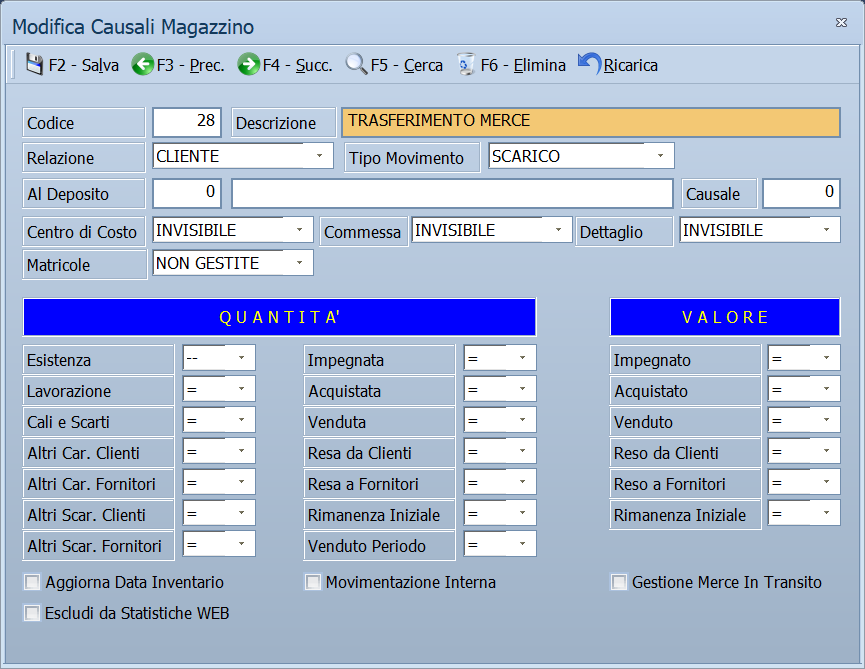
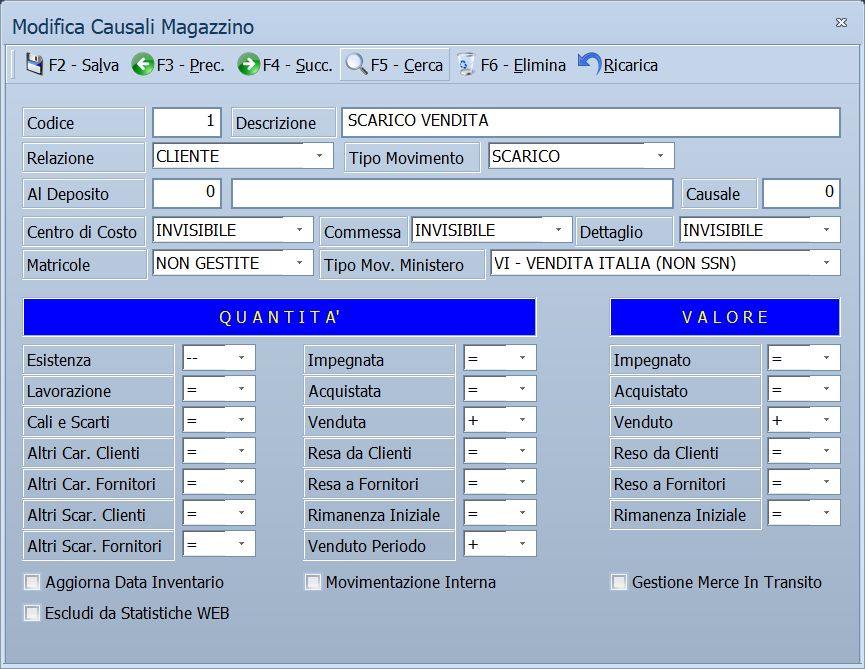
Gestione farmaceutica (B09.00): campi nuovi di ditte, articoli, clienti, destinazioni, depositi e causali
- Ditte: «Usa Gestione Farmaceutica» nelle Impostazioni Protette, come si
  attiva, e la conferma «Sei Sicuro di voler continuare?».
- Articoli: Cod. Minsan e Soggetto a Tracciabilita', con il messaggio del
  controllo sul formato del Minsan.
- Clienti (scheda Impostazioni) e destinazioni: tipo e codice ministeriale.
- Depositi: Cod. Sito NSIS. Causali: Tipo Mov. Ministero con i 29 tipi.
- Novita': sezione 2026 B09.00, con la correzione dell'avviso spurio sul
  ricalcolo delle causali e la nuova disposizione di destinazioni e depositi.
- Schermate di articoli, destinazioni, depositi e causali rifatte a gestione
  farmaceutica accesa, su dati di prova (fornitore offuscato).
- Versione portata a 2026 B09.00; appendice dei messaggi e domande aperte
  rigenerate.

Claude-Session: https://claude.ai/code/session_012GmMJWReQpuuApgDaJwkzQ

Changed region(s): [[0.3746, 0.1495, 0.9676, 0.2093], [0.3746, 0.3587, 0.9988, 0.4185], [0.2185, 0.1495, 0.2497, 0.2093]]

diff --git a/docs/appendici/messaggi-errore.md b/docs/appendici/messaggi-errore.md
@@ -8,7 +8,7 @@ description: Elenco alfabetico dei messaggi di Facile, con la maschera che li mo
 Tutti i messaggi documentati nelle schede, in un elenco solo. Cerca il
 testo comparso a video con il campo di ricerca in alto.
 
-Aggiornato al 2026-10-10 — **1055 messaggi**.
+Aggiornato al 2026-10-12 — **1057 messaggi**.
 
 !!! note "Come leggere la colonna «Dove»"
 
@@ -412,6 +412,7 @@ Aggiornato al 2026-10-10 — **1055 messaggi**.
 | *Il Codice Fiscale digitato risulta già presente in archivio! Vuoi Continuare?* | [Anagrafica fornitori](../moduli/anagrafiche/anagrafica-fornitori.md) | Lo stesso codice fiscale è già di un altro fornitore. | Come sopra. |
 | *Il Codice Fiscale digitato risulta già presente in archivio! Vuoi Continuare?* | [Rubrica](../moduli/anagrafiche/rubrica.md) | Lo stesso codice fiscale è già di un altro contatto. | Come sopra. |
 | *Il codice IVA impostato non è esente !<br>Impossibile continuare* | [Emissione fatture da documenti](../moduli/vendite/emissione-fatture-da-documenti.md) | L'aliquota indicata non è di esenzione. | Usa un'[aliquota](../moduli/contabilita/aliquote-iva.md) esente. |
+| *Il Codice Minsan/AIC deve avere 9 cifre, oppure la lettera E seguita da 8 cifre.* | [Anagrafica articoli](../moduli/anagrafiche/anagrafica-articoli.md) | Il **Cod. Minsan** non ha il formato richiesto. | Correggilo, oppure lascialo vuoto se l'articolo non è un medicinale. |
 | *Il codice nazione impostato sulla ditta deve essere di due caratteri!* | [Fatture elettroniche passive](../moduli/contabilita/fatture-elettroniche-passive.md) | Il codice nazione non è nel formato ISO a due lettere. | Correggilo, per esempio `IT`. |
 | *Il Codice non può superare …* | [Anagrafica clienti](../moduli/anagrafiche/anagrafica-clienti.md) | Il codice scritto è fuori dall'intervallo ammesso. | Usa un codice più basso. |
 | *Il Destinatario e' una pubblica amministrazione!<br>Vuoi utilizzare il registro e la causale per le Fatture PA ?* | [Documento di vendita](../moduli/vendite/documento-di-vendita.md) | Come sopra, quando è il destinatario a essere una PA. | Come sopra. |
@@ -961,6 +962,7 @@ Aggiornato al 2026-10-10 — **1055 messaggi**.
 | *Se il movimento è di tipo SCARICO impostare ESISTENZA -* | [Chiusura dell'inventario](../moduli/inventario/chiusura-inventario.md) | La causale è di scarico ma non sottrae dall'esistenza. | Correggi la [causale](../moduli/magazzino/causali-magazzino.md). |
 | *Se il movimento è di tipo SCARICO impostare ESISTENZA -* | [Movimenti di magazzino](../moduli/magazzino/movimenti-magazzino.md) | La causale scelta è di scarico ma non toglie dall'esistenza. | Correggi la [causale di magazzino](../moduli/magazzino/causali-magazzino.md), o scegline un'altra. |
 | *Sei Sicuro ?* | [Manutenzione degli articoli](../moduli/anagrafiche/manutenzione-articoli.md) | Seconda conferma della cancellazione. | **Sì** cancella davvero. Non si torna indietro. |
+| *Sei Sicuro di voler continuare?* | [Ditte](../moduli/anagrafiche/ditte.md) | Conferma richiesta da **F2 - Salva** nelle **Impostazioni Protette**. La risposta preimpostata è **No**. | Rispondi **Sì** per registrare. La finestra resta aperta: chiudila con **Esci**. |
 | *Selezionare almeno una Sezione!* | [Stampe magazzino clienti](../moduli/magazzino/stampe-magazzino-clienti.md), [Stampe magazzino fornitori](../moduli/magazzino/stampe-magazzino-fornitori.md) | Si è confermato senza aver spuntato nessuna sezione. | Spunta le sezioni da includere. |
 | *Selezionare almeno un registro !* | [Rinumerazione protocolli](../moduli/contabilita/rinumerazione-protocolli.md) | Nessuna delle sei caselle è spuntata. | Spunta il registro o i registri da rinumerare. |
 | *Sequenza Errata* (sul display del Pos Touchscreen) | [Vendita al banco e POS](../moduli/vendite/vendita-al-banco.md) | Fra le altre cause: hai battuto una quantità da moltiplicare e poi letto l'etichetta di una bilancia che porta già l'importo; oppure hai letto lo scontrino di una bilancia Zenith con il moltiplicatore, il reso, lo storno o il prezzo libero ancora attivi. | Premi **C** e rileggi l'etichetta o lo scontrino senza altri tasti; per più pezzi, leggi un'etichetta per pezzo. |

diff --git a/docs/moduli/anagrafiche/ditte.md b/docs/moduli/anagrafiche/ditte.md
@@ -474,6 +474,7 @@ dopo la password e dopo un avviso esplicito. Contiene i parametri più delicati:
 | **Key SmartCard**, **Pin**, **Utilizzo SmartC.** | La smart card. |
 | **Ultima Fattura su Cassa**, **Ultima Scontrino Emesso** | Gli ultimi numeri emessi. |
 | **Categoria Premi** | La categoria dei premi fidelity. |
+| **Usa Gestione Farmaceutica** | Accende la gestione dei medicinali: il codice Minsan e la tracciabilità sugli [articoli](anagrafica-articoli.md), i codici ministeriali su [clienti](anagrafica-clienti.md) e [destinazioni](destinazioni-diverse.md), il sito NSIS sui [depositi](../magazzino/depositi.md) e il tipo di movimento sulle [causali di magazzino](../magazzino/causali-magazzino.md). Spenta, quei campi non compaiono da nessuna parte. |
 
 ### Intestazione per Fatturazione
 
@@ -507,6 +508,17 @@ stampata sui documenti, con **F2 - Salva** ed **Esci**.
 Va deciso **prima** di popolare gli archivi: cambiare idea dopo significa avere
 articoli classificati secondo un significato che non c'è più.
 
+### Attivare la gestione farmaceutica
+
+1. Entra come amministratore e apri **Menu ▸ Archivi ▸ Ditte ▸ Modifica**.
+2. Premi **F7 - Impo. Prot.**, inserisci la password e conferma l'avviso.
+3. Spunta **Usa Gestione Farmaceutica**.
+4. Premi **F2 - Salva** e rispondi **Sì** a *Sei Sicuro di voler continuare?*.
+5. Premi **Esci**, poi chiudi la maschera delle ditte.
+6. Da quel momento le maschere di articoli, clienti, destinazioni, depositi e
+   causali di magazzino mostrano i campi della gestione farmaceutica. Una
+   maschera che era già aperta li mostra dopo averla chiusa e riaperta.
+
 ### Attivare l'IVA per cassa
 
 1. Nella scheda **Generale**, metti **Iva D.L.83/2012** su `SI`.
@@ -527,6 +539,7 @@ articoli classificati secondo un significato che non c'è più.
 | *Una sola ditta e' presente in archivio!* | Si è chiesto il cambio ditta ma l'azienda gestita è una sola. | Non c'è nulla da fare: si sta già lavorando sull'unica azienda. |
 | *Cambio ditta non permesso!* | Il cambio ditta è stato bloccato per questa installazione. | Se serve, chiedi all'assistenza di abilitarlo. |
 | *Attenzione!<br>La variazione di queste impostazioni può provocare il blocco del funzionamento del programma.<br>Eseguire l'operazione solo dopo aver contattato l'assistenza al numero 0941/563653.* | Si stanno aprendo le **Impostazioni Protette**. | Chiama prima l'assistenza, come dice il messaggio. |
+| *Sei Sicuro di voler continuare?* | Conferma richiesta da **F2 - Salva** nelle **Impostazioni Protette**. La risposta preimpostata è **No**. | Rispondi **Sì** per registrare. La finestra resta aperta: chiudila con **Esci**. |
 | *Il numero delle cifre non può essere pari a 0!* | Nel formato seriale da contatore manca il numero di cifre. | Compila **Cifre**. |
 | *Il codice finale non può avere valore pari a 0!* | Manca il codice finale del contatore. | Compila **Cod. Finale**. |
 | *Il codice finale non può avere valore inferiore o pari al valore iniziale!* | L'intervallo del contatore è a rovescio. | Metti **Cod. Finale** maggiore di **Cod. Iniziale**. |

diff --git a/DOMANDE-APERTE.md b/DOMANDE-APERTE.md
@@ -1,7 +1,7 @@
 # Domande aperte del manuale Facile
 
 Elenco generato da tutti i marcatori `DA VERIFICARE` presenti nelle schede.
-Aggiornato al 2026-10-03 — **6 domande** su 4 pagine.
+Aggiornato al 2026-10-12 — **14 domande** su 11 pagine.
 
 Ogni voce corrisponde a un commento HTML dentro la pagina indicata: rispondendo
 alla domanda, la correzione va fatta nella pagina e il marcatore va tolto.
@@ -9,18 +9,61 @@ Per rigenerare questo elenco:
 
     .venv/Scripts/python.exe tools/domande-aperte.py
 
+## Messaggi di errore
+
+`docs/appendici/messaggi-errore.md`
+
+- [ ] dopo la riapertura la bilancia emette un nuovo scontrino con le stesse righe?
+
 ## Codici articolo dei clienti
 
 `docs/moduli/anagrafiche/codici-articolo-clienti.md`
 
 - [ ] da quale voce di menu parte l'invio EDI degli avvisi di spedizione (DESADV), che usa anch'esso questi codici?
 
+## Cassa automatica Cashlogy
+
+`docs/moduli/casse-bilance/casse-automatiche/cashlogy.md`
+
+- [ ] che cosa fanno sulla schermata della Cashlogy i pulsanti Accetta e Deposito
+
+## Cassa automatica Cashmatic
+
+`docs/moduli/casse-bilance/casse-automatiche/cashmatic.md`
+
+- [ ] quale programma della Cashmatic elabora i file nella cartella di scambio
+
+## Registratori telematici RCH
+
+`docs/moduli/casse-bilance/registratori/rch.md`
+
+- [ ] le righe da mettere in scontrino.inp per far leggere al Multidriver la programmazione (nel documento tecnico «Gestione Driver RCH» sono andate perse)
+
+## Connettore nopCommerce
+
+`docs/moduli/ecommerce/nopcommerce.md`
+
+- [ ] quale estensione del negozio nopCommerce espone l'indirizzo con gli ordini in XML
+
+## Connettore PrestaShop
+
+`docs/moduli/ecommerce/prestashop.md`
+
+- [ ] la destinazione di consegna creata dall'importazione non viene collegata all'ordine (resta quella del titolare)
+
+## Connettore WooCommerce
+
+`docs/moduli/ecommerce/woocommerce.md`
+
+- [ ] quale estensione del negozio espone wp-json/wholesale/v1, e quali credenziali WordPress servono per le immagini
+
 ## Documento di vendita
 
 `docs/moduli/vendite/documento-di-vendita.md`
 
+- [ ] con la quantita' scritta come numero il programma la legge dalla colonna G e non dalla H (difetto segnalato, non corretto)
 - [ ] cosa fanno esattamente Buoni Pasto e Fattura XML/P7M dopo la scelta
-- [ ] documentare le finestre della riga delle altre versioni (Taglie e Colori, Tabacchi, CO.M.EDIL)
+- [ ] documentare le finestre della riga delle altre versioni (Tabacchi, CO.M.EDIL)
 
 ## Promozioni
 
@@ -29,8 +72,8 @@ Per rigenerare questo elenco:
 - [ ] che cosa fa la cassa SysPC quando l'azione è posticipata?
 - [ ] il 3x2 di esempio in "Come si fa" usa (No) - Articoli Autonomi; per le casse vale (Si) o (No)? Facile non legge questo campo.
 
-## Novità
+## Vendita al banco e POS
 
-`docs/novita/index.md`
+`docs/moduli/vendite/vendita-al-banco.md`
 
-- [ ] data di distribuzione della B08.01
+- [ ] dopo la riapertura la bilancia emette un nuovo scontrino con le stesse righe?

diff --git a/docs/moduli/anagrafiche/anagrafica-articoli.md b/docs/moduli/anagrafiche/anagrafica-articoli.md
@@ -140,6 +140,8 @@ Il programma richiede sempre la **Descrizione** e il **Cod. Iva**. Il
 | Coef. Convers. | | Coefficiente per convertire l'unità del fornitore nella propria. | Numero |
 | Codice Assoc. | | Codice dell'articolo presso l'associazione o il consorzio. | Testo |
 | Web Id | | Identificativo dell'articolo sul sito web. Compare solo se nei dati dell'azienda è attiva la gestione web, e non è modificabile. | Numero |
+| Cod. Minsan | | Il codice ministeriale del prodotto (AIC o Minsan), con cui il medicinale è identificato nelle comunicazioni al Ministero della Salute. Può restare vuoto. Compare solo con la [gestione farmaceutica](ditte.md#attivare-la-gestione-farmaceutica) attiva. | 9 cifre, oppure la lettera E seguita da 8 cifre |
+| Soggetto a Tracciabilità | | Segna i medicinali soggetti alla tracciabilità del farmaco, i cui movimenti vanno comunicati al Ministero della Salute. Compare solo con la gestione farmaceutica attiva. | Casella |
 
 Sopra le schede compaiono, quando ricorrono, le indicazioni **PROMO** —
 l'articolo è in promozione — e **Fuori Ass.** — l'articolo è fuori
@@ -294,6 +296,7 @@ Con l'anagrafica già aperta, **F5 - Cerca** riporta allo stesso elenco.
 | *La descrizione articolo in italiano e' obbligatoria!* | Stai lavorando in una lingua diversa dall'italiano e la descrizione italiana è vuota. | Torna all'italiano con **Seleziona Lingua** e scrivi la descrizione. |
 | *Codice Articolo Presente in Archivio.* | Il codice digitato è già di un altro articolo. | Usa un codice diverso, o lascialo vuoto per farlo generare al programma. |
 | *Codice Articolo inferiore al minimo consentito (…)!* — *Codice Articolo superiore al massimo consentito (…)!* | Il codice è fuori dall'intervallo previsto per la generazione automatica dei codici. | Usa un codice compreso nell'intervallo indicato dal messaggio. |
+| *Il Codice Minsan/AIC deve avere 9 cifre, oppure la lettera E seguita da 8 cifre.* | Il **Cod. Minsan** non ha il formato richiesto. | Correggilo, oppure lascialo vuoto se l'articolo non è un medicinale. |
 | *Accoppiata Bancone - PLU gia' presente in Archivio ! Vuoi Correggere ?* | Un altro articolo ha già quel numero di PLU su quel bancone. | Rispondi **Sì** e cambia **Num. PLU** o **Bancone** nella scheda *Impostazioni*. |
 | *Confermi la cancellazione...* | Conferma richiesta da **F6 - Elimina** sulla prima eliminazione. | Rispondi **Sì** per marcare l'articolo come cancellato. |
 | *Confermi la Cancellazione....* | Conferma richiesta dalla seconda eliminazione, quella definitiva. | Rispondi **Sì** per togliere l'articolo dall'archivio. |

diff --git a/docs/novita/index.md b/docs/novita/index.md
@@ -16,6 +16,52 @@ una versione specifica del programma lo dicono in apertura, per esempio
 Non sono elencate le modifiche interne, che non cambiano nulla a video, e
 quelle dei prodotti che hanno un manuale proprio, come Hotel e RistoFacile.
 
+## Versione 2026 B09.00
+
+In preparazione.
+
+### Nuove funzioni
+
+**[Gestione farmaceutica](../moduli/anagrafiche/ditte.md#attivare-la-gestione-farmaceutica).**
+Per chi distribuisce medicinali, una nuova casella delle **Impostazioni
+Protette** della ditta, **Usa Gestione Farmaceutica**, aggiunge alle maschere i
+dati che servono per la tracciabilità del farmaco presso il Ministero della
+Salute:
+
+- sugli [articoli](../moduli/anagrafiche/anagrafica-articoli.md), il **Cod.
+  Minsan** e la casella **Soggetto a Tracciabilità**. Il codice si controlla al
+  salvataggio: 9 cifre, oppure la lettera E seguita da 8 cifre;
+- sui [clienti](../moduli/anagrafiche/anagrafica-clienti.md), nella scheda
+  **Impostazioni**, il tipo e il codice ministeriale del destinatario, del
+  committente e dell'intestatario della fattura;
+- sulle [destinazioni](../moduli/anagrafiche/destinazioni-diverse.md) dei
+  clienti, il tipo e il codice ministeriale del destinatario;
+- sui [depositi](../moduli/magazzino/depositi.md), il **Cod. Sito NSIS**;
+- sulle [causali di magazzino](../moduli/magazzino/causali-magazzino.md), il
+  **Tipo Mov. Ministero**, con i 29 tipi previsti.
+
+Con la casella spenta non cambia nulla: i campi nuovi non compaiono.
+
+### Miglioramenti
+
+- [Destinazioni diverse](../moduli/anagrafiche/destinazioni-diverse.md): la
+  finestra è più larga e i dati di nascita del titolare non sono più chiusi
+  in un riquadro.
+- [Depositi](../moduli/magazzino/depositi.md): **Cod. P.Vendita** della
+  versione Megastore sta ora sopra le caselle **Escludi**, accanto al sito
+  NSIS.
+
+### Correzioni
+
+**Magazzino**
+
+- [Causali magazzino](../moduli/magazzino/causali-magazzino.md): salvando una
+  causale raggiunta con **F3 - Prec.**, **F4 - Succ.**, **F5 - Cerca** o
+  **Ricarica**, il programma poteva avvisare *Hai cambiato il modo in cui
+  questa causale muove i contatori di magazzino…* anche se i contatori non
+  erano stati toccati: li confrontava con quelli della prima causale aperta.
+  Ora l'avviso compare solo quando i contatori cambiano davvero.
+
 ## Versione 2026 B08.01
 
 In distribuzione dal 12 ottobre 2026.

diff --git a/docs/moduli/magazzino/depositi.md b/docs/moduli/magazzino/depositi.md
@@ -89,12 +89,13 @@ ciascuno con la sua casella.
 | Registro Doc. | | Registro su cui numerare i documenti emessi da questo deposito. Lasciandolo vuoto vale il registro generale. | (vuoto) o un registro definito in azienda |
 | Fornitore | | Fornitore associato al deposito. Il programma lo registra ma **non lo rilegge da nessuna parte**. | Codice dall'archivio fornitori |
 | Cod. Destinazione | | La destinazione a cui il fornitore deve consegnare per questo deposito: viene messa sugli ordini generati dalla distribuzione automatica. | Numero di una destinazione di tipo fornitore o ditta |
+| Cod. Sito NSIS | | Il codice con cui il ministero identifica il deposito come sito logistico, usato nelle comunicazioni dei movimenti dei medicinali. Compare solo con la [gestione farmaceutica](../anagrafiche/ditte.md#attivare-la-gestione-farmaceutica) attiva. | Fino a 6 caratteri |
+| Cod. P.Vendita | | **Solo Megastore.** Codice con cui il punto vendita è identificato negli scambi con la centrale. | Fino a 7 caratteri |
 | Escludi Visibilità Web | | Le giacenze del deposito **non vengono mandate al negozio online**. Su un deposito nuovo è già spuntata. | Casella |
 | Escludi Interrogazione da Web | | Il deposito **non compare fra quelli interrogabili** nella consultazione delle giacenze. | Casella |
 | Escludi da Esportazione P.V. | | Il deposito resta fuori dall'esportazione verso i punti vendita. | Casella |
 | Escludi da Inventario | | Il deposito non entra nelle stampe e nelle rilevazioni d'inventario. | Casella |
 | Escludi da Magazzino | | Il deposito non entra nelle stampe di magazzino. | Casella |
-| Cod. P.Vendita | | **Solo Megastore.** Codice con cui il punto vendita è identificato negli scambi con la centrale. | Fino a 7 caratteri |
 | Importa solo Articoli SMA | | **Solo Megastore.** L'importazione carica sul deposito i soli articoli previsti dalla centrale. Nella versione Taglie e Colori - Calzature la stessa casella si chiama **Non Esportare Sconto Clienti**. | Casella |
 
 !!! note "Nota"

diff --git a/docs/moduli/anagrafiche/anagrafica-clienti.md b/docs/moduli/anagrafiche/anagrafica-clienti.md
@@ -192,6 +192,9 @@ Il programma richiede sempre e comunque **Codice** e **Rag. Sociale 1/Cognome**.
 | Spese Stoccaggio, Spese Trasporto, Altre Spese | | Spese addebitate al cliente. Nella versione Ortofrutta i tre campi si chiamano **% Incid. Stoccaggio**, **% Incid. Trasporto** e **% Incid. Contratto** e si esprimono in percentuale, da 0 a 100. | Importi |
 | Normale, Transfert, C.S. Vendita, C.S. Trasfert | | Le quattro percentuali di provvigione, nel riquadro **% Provvigioni**. | Percentuali |
 | Crediti Acquistati, Crediti Utilizzati, Crediti Utilizzabili Offline, Num. Crediti Omaggio, Data Crediti Omaggio, Fine Data Xml -> PDF | | **Solo RSA Office.** I crediti del servizio di invio delle fatture elettroniche, nel riquadro **Crediti Invia Fatture Elettroniche**. Nelle altre versioni il riquadro non compare. | Numeri e date |
+| Tipo Destinatario, Cod. Ministeriale | | Come il cliente è identificato nelle comunicazioni al Ministero della Salute quando riceve medicinali: il tipo di destinatario e il suo codice ministeriale. Nel riquadro **Gestione Farmaceutica**, che compare solo con la [gestione farmaceutica](ditte.md#attivare-la-gestione-farmaceutica) attiva e mai nella versione RSA Office. | F - FARMACIA, D - DISTRIBUTORE, A - ASL, R - REGIONE, T - STRUTTURA DI RICOVERO, L - LABORATORIO DI ANALISI, C - ESERCIZIO COMMERCIALE, E - ESTERO, P - PRODUTTORE, S - SMALTITORE, I - IPZS, U - USCITA DAL CANALE, Z - ALTRO; codice fino a 11 caratteri |
+| Tipo Committente, Cod. Committente | | L'ente per conto del quale si consegna, quando la fornitura è fatta per un'ASL, una Regione o una struttura, come nella distribuzione per conto. Nello stesso riquadro. | A - ASL, R - REGIONE, T - STRUTTURA; codice fino a 16 caratteri |
+| Tipo Intestatario, Cod. Intestatario | | L'ente a cui è intestata la fattura della fornitura, quando non è il cliente stesso. Nello stesso riquadro. | A - ASL, R - REGIONE, T - STRUTTURA; codice fino a 16 caratteri |
 
 !!! warning "Attenzione"
 

diff --git a/docs/moduli/magazzino/causali-magazzino.md b/docs/moduli/magazzino/causali-magazzino.md
@@ -90,6 +90,41 @@ In alto ci sono i campi di ricerca:
 | Commessa | | Se la commessa va chiesta sul movimento. | INVISIBILE, FACOLTATIVO, OBBLIGATORIO |
 | Dettaglio | | Se il dettaglio va chiesto sul movimento. | INVISIBILE, FACOLTATIVO, OBBLIGATORIO |
 | Matricole | | Se il movimento gestisce le matricole. | NON GESTITE, FACOLTATIVE, OBBLIGATORIE |
+| Tipo Mov. Ministero | | Come i movimenti di questa causale vanno comunicati al Ministero della Salute per la tracciabilità dei medicinali. Lascialo vuoto sulle causali che non riguardano il Ministero. Compare solo con la [gestione farmaceutica](../anagrafiche/ditte.md#attivare-la-gestione-farmaceutica) attiva. | (vuoto) o uno dei 29 tipi del Ministero, elencati qui sotto |
+
+??? note "I tipi di movimento del Ministero"
+
+    | Tipo | Significato |
+    |---|---|
+    | VI | Vendita Italia (non SSN) |
+    | VS | Vendita SSN |
+    | VE | Vendita estero |
+    | RI | Altre restituzioni in ingresso |
+    | RT | Restituzione in ingresso SSN |
+    | RN | Rientri |
+    | NV | Movimento senza vendita |
+    | DC | Distribuzione per conto ASL/Regione |
+    | RD | Restituzione da distribuzione per conto |
+    | RS | Rientro a fornitore da distribuzione per conto |
+    | DI | Distruzione |
+    | SM | Smaltimento |
+    | FU | Furto o smarrimento |
+    | RF | Ritrovamento furto |
+    | SQ | Sequestro |
+    | DQ | Dissequestro |
+    | DN | Donazione |
+    | QP | Quadratura con differenza positiva |
+    | QN | Quadratura con differenza negativa |
+    | NC | Nota di credito accordi AIFA |
+    | CU | Uso compassionevole |
+    | RU | Restituzione uso compassionevole |
+    | DB | Distruzione bollini |
+    | FB | Furto bollini |
+    | RB | Reso bollino |
+    | RC | Riclassificazione bollino |
+    | PV | Prelievo vaccini Covid |
+    | RV | Restituzione vaccini Covid |
+    | ZZ | Altro movimento |
 
 ### Contatori
 

diff --git a/docs/moduli/anagrafiche/destinazioni-diverse.md b/docs/moduli/anagrafiche/destinazioni-diverse.md
@@ -103,8 +103,9 @@ correggere, cancellare e stampare le destinazioni.
 | **Listino Trasfert** | | Listino applicato ai trasferimenti verso questa destinazione. Solo per le destinazioni. | Numero di listino |
 | **Escludi dal Fatturato** | | Esclude la destinazione dalle [stampe clienti](stampe-clienti.md) che filtrano su questo segno. Solo per le destinazioni. | Sì / No |
 | **Cod. Univoco Ufficio** | | Il codice IPA dell'ufficio, per le destinazioni della Pubblica Amministrazione. | Fino a 6 caratteri |
+| **Tipo Destinatario**, **Cod. Ministeriale** | | Come la destinazione è identificata nelle comunicazioni al Ministero della Salute quando riceve medicinali: il tipo di destinatario e il suo codice ministeriale, come per il [cliente](anagrafica-clienti.md). Solo per le destinazioni dei clienti, e solo con la [gestione farmaceutica](ditte.md#attivare-la-gestione-farmaceutica) attiva. | Gli stessi tipi del cliente, da F - FARMACIA a Z - ALTRO; codice fino a 11 caratteri |
 
-Solo per il **titolare**, nel riquadro in basso:
+Solo per il **titolare**, nelle due righe in basso:
 
 | Campo | Obbl. | Descrizione | Valori ammessi |
 |---|:---:|---|---|

diff --git a/includes/versione-facile.md b/includes/versione-facile.md
@@ -1,4 +1,4 @@
 !!! info "Versione documentata"
 
-    Il manuale descrive **Facile 2026 B08.01**. La versione installata la
+    Il manuale descrive **Facile 2026 B09.00**. La versione installata la
     leggi in basso a destra, nella barra di stato del programma.
